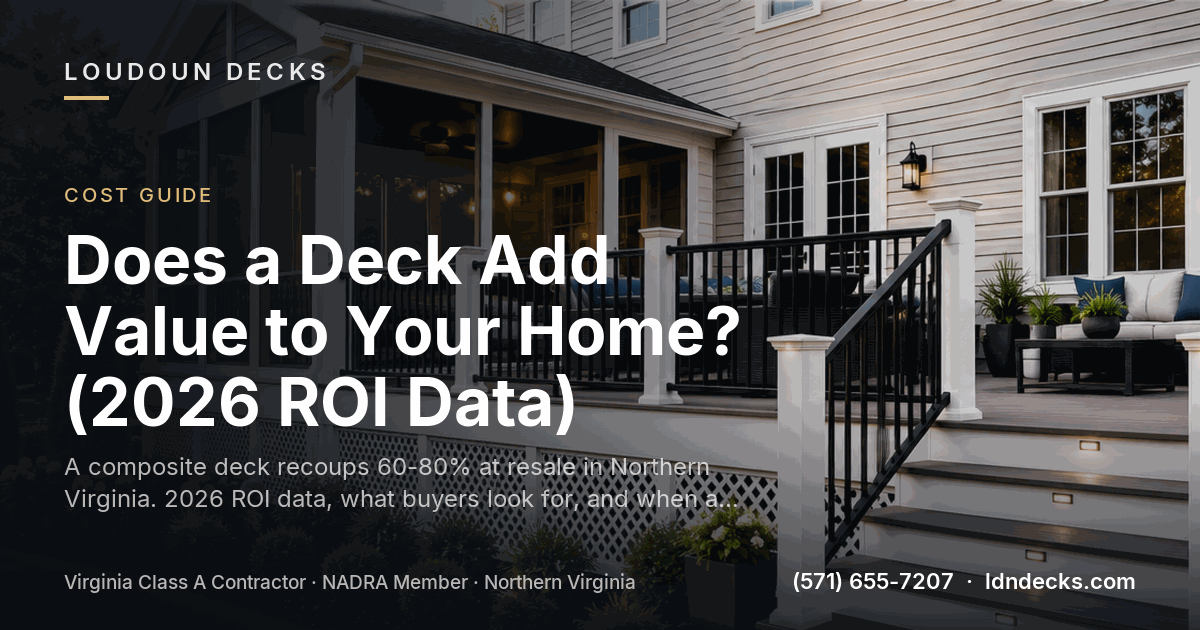
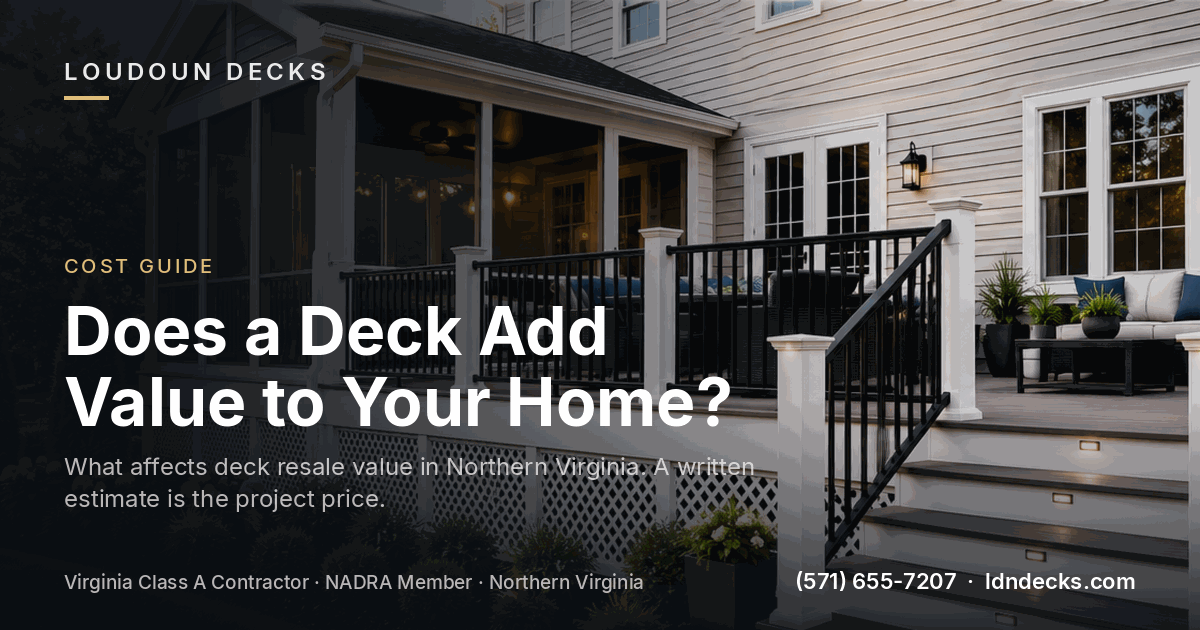
Align deck-value titles and the author byline with published claims.
Drop the Trex and TimberTech program-status disclaimer from NamedAuthor, and stop the deck-value page, metadata, schema, and social card from promising ROI data or a recovery percentage.

diff --git a/src/app/does-a-deck-add-value-to-your-home/page.js b/src/app/does-a-deck-add-value-to-your-home/page.js
@@ -11,8 +11,8 @@ import NamedAuthor from '@/components/NamedAuthor';
 
 export const metadata = buildMetadata({
   path: '/does-a-deck-add-value-to-your-home',
-  title: 'Does a Deck Add Value to Your Home? (2026 ROI Data)',
-  description: 'Resale recovery is not a fixed percentage, and this page does not publish one. A written estimate is the project price.',
+  title: 'Does a Deck Add Value to Your Home?',
+  description: 'What affects deck resale value in Northern Virginia. A written estimate is the project price.',
   image: '/social/does-a-deck-add-value-social.png',
 });
 
@@ -31,12 +31,12 @@ export default function DeckValuePage() {
   return (
     <>
       <JsonLd data={faqSchema} />
-      <WebPageSchema dateModified="2026-10-18" url="https://ldndecks.com/does-a-deck-add-value-to-your-home" name="Does a Deck Add Value to Your Home? (2026 ROI Data)" description="Resale recovery is not a fixed percentage, and this page does not publish one. A written estimate is the project price." speakable />
+      <WebPageSchema dateModified="2026-10-18" url="https://ldndecks.com/does-a-deck-add-value-to-your-home" name="Does a Deck Add Value to Your Home?" description="What affects deck resale value in Northern Virginia. A written estimate is the project price." speakable />
 
       <section style={{ background: 'var(--color-dark)', color: '#fff', padding: '4rem 0' }}>
         <div style={{ maxWidth: 900, margin: '0 auto', padding: '0 1.5rem' }}>
           <h1 style={{ fontSize: '2.5rem', fontWeight: 700, marginBottom: '1rem' }}>Does a Deck Add Value to Your Home?</h1>
-          <p style={{ color: '#ccc', fontSize: '1.1rem' }}>2026 ROI data for Northern Virginia homeowners</p>
+          <p style={{ color: '#ccc', fontSize: '1.1rem' }}>What affects deck resale value in Northern Virginia. A written estimate is the project price.</p>
         </div>
       </section>
 

diff --git a/src/components/NamedAuthor.jsx b/src/components/NamedAuthor.jsx
@@ -46,7 +46,7 @@ export default function NamedAuthor({ context = 'Northern Virginia', lastUpdated
           <span style={{ fontWeight: 500, color: '#555' }} itemProp="jobTitle">{BUSINESS.founder.jobTitle}, Loudoun Decks</span>
         </p>
         <p style={{ margin: 0, fontSize: '0.85rem', color: '#555', lineHeight: 1.55 }} itemProp="description">
-          Virginia Class A Licensed Contractor. Deck planning in {context} is scoped in the written estimate. Trex and TimberTech program status is not stated here.{' '}
+          Virginia Class A Licensed Contractor. Deck planning in {context} is scoped in the written estimate. We install Trex, TimberTech and other composite brands.{' '}
           <Link href="/team" style={{ color: 'var(--color-primary)', fontWeight: 600 }}>Meet the team</Link>
         </p>
         {lastUpdated && (
